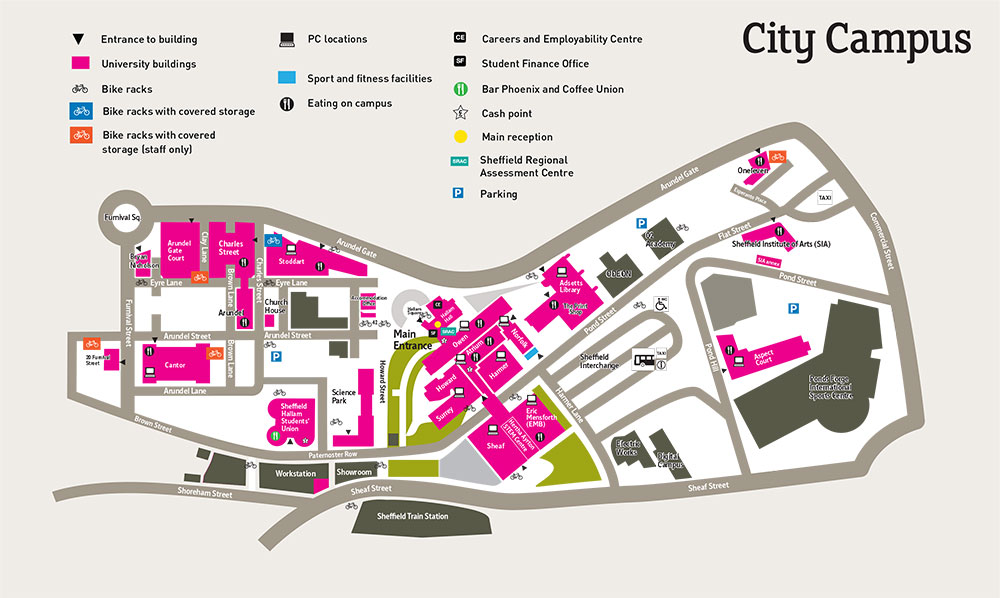
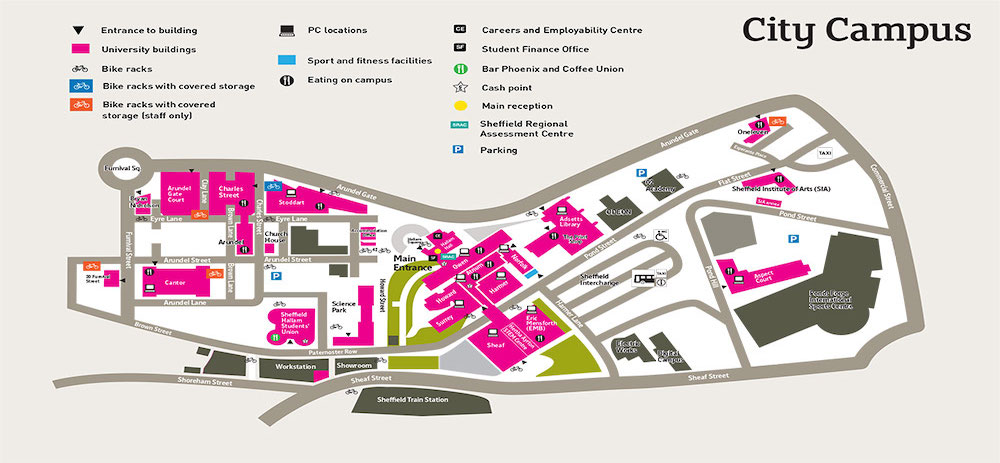
burger menu

diff --git a/business.html b/business.html
@@ -46,7 +46,7 @@
             best aspects of XSL and Dynamic HTML. Our technology takes the best
             aspects of ActionScript and Python.
           </p>
-          <img class="resize" src="images/business copy.jpeg" />
+          <img class="resize" src="images/business.jpeg" />
           <p>
             <strong
               >We here at Cantor College think we know that it is better to

diff --git a/contact-us.html b/contact-us.html
@@ -31,7 +31,7 @@
 
       <div id="main">
         <section>
-          <img class="resize" src="images/SHUSpaceCitymap copy.jpg" />
+          <img class="resize" src="images/SHUSpaceCitymap.jpg" />
           <form action="thank-you.html">
             <div>
               <label for="yourName">Full Name:</label>

diff --git a/index.html b/index.html
@@ -20,6 +20,9 @@
       <header>
         <div id="cantor">
           <h1><a href="index.html">Cantor College</a></h1>
+          <div class="burger">
+            <img src="images/burgerMenu.svg" />
+          </div>
         </div>
         <nav>
           <ul>

diff --git a/styles/mobile.css b/styles/mobile.css
@@ -60,6 +60,14 @@ nav ul li a {
   font-weight: bold;
 }
 
+.burger {
+  display: block;
+  width: 80px;
+  min-width: 80px;
+  margin-left: 300px;
+  margin-top: 50px;
+}
+
 footer {
   border-top: 2px solid #f2a903;
   margin: 15px 10px 10px 0;

diff --git a/styles/desktop.css b/styles/desktop.css
@@ -33,6 +33,10 @@ nav ul {
   flex-direction: row;
 }
 
+.burger {
+  display: none;
+}
+
 #main {
   display: flex;
   margin-left: 10px;
